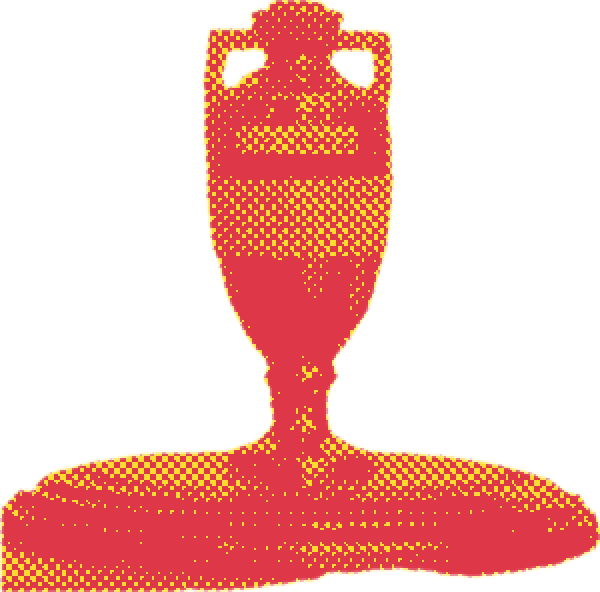
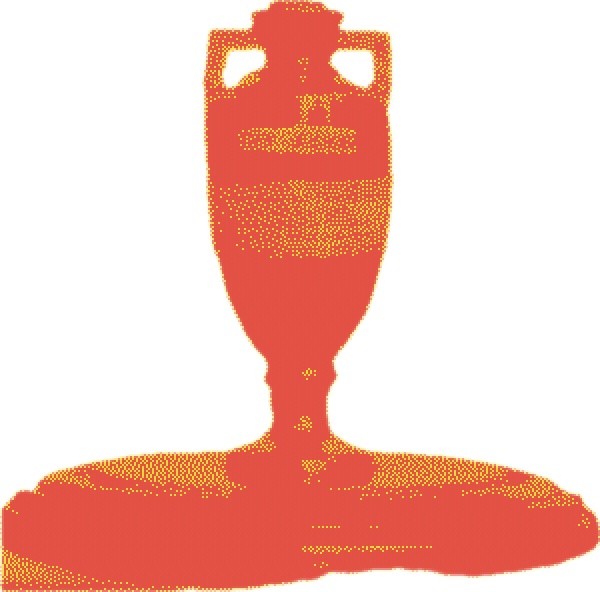
toombul: organic dither + slotted collage layout, five new objects
Swap the tiled h6x6a halftone for Floyd-Steinberg error diffusion
(gaussian pre-blur, binary, red->yellow clut) — organic photocopy grain,
no repeating pattern. Re-lay the collage on a slotted three-row grid with
even gutters, tuned visually on a 1440x900 compositing rig (Bradman kept
bottom right). New objects: Victor Trumper c1905, Wills's Ranji cigarette
card (1901, kept as full card rectangle), 1894 Sheffield Shield engraving,
engraved presentation cup, Bradman Toby jug.

diff --git a/app/toombul/toombul-site.css b/app/toombul/toombul-site.css
@@ -224,33 +224,38 @@
   pointer-events: none;
   z-index: 1;
 }
-/* Bradman & his captain walk off toward the crest, anchored bottom right. */
-.tc-para--bradman { right: 4%; bottom: 0; width: clamp(200px, 30vw, 440px); }
-/* The urn stands mid-left. */
-.tc-para--urn { left: 7%; top: 34%; width: clamp(110px, 15vw, 220px); }
-/* Baggy green floats top right. */
-.tc-para--cap { right: 15%; top: 11%; width: clamp(100px, 13vw, 190px); }
-/* Ball top left. */
-.tc-para--ball { left: 16%; top: 13%; width: clamp(70px, 9vw, 130px); }
-/* Bat sweeps diagonally, lower left. */
-.tc-para--bat { left: 3%; bottom: 12%; width: clamp(180px, 26vw, 380px); transform: rotate(-32deg); transform-origin: center; }
-/* Keeper's gloves, bottom centre-left. */
-.tc-para--gloves { left: 34%; bottom: 6%; width: clamp(100px, 13vw, 190px); }
-/* Stumps, top centre. */
-.tc-para--stumps { left: 42%; top: 7%; width: clamp(120px, 16vw, 230px); }
-/* Advance Australia arms, mid right edge — clear of Bradman's shoulder. */
-.tc-para--arms { right: 3%; top: 33%; width: clamp(80px, 10vw, 150px); }
+/* Slotted layout, tuned visually on a 1440x900 rig (scratchpad L5): three
+   loose rows with even gutters, Bradman anchored bottom right. Positions
+   are % of the section; widths are vw-driven so the slots hold together. */
+/* row 1 */
+.tc-para--ball { left: 6.9%; top: 12.2%; width: clamp(64px, 9vw, 150px); }
+.tc-para--card { left: 21.5%; top: 9.4%; width: clamp(56px, 7.6vw, 128px); }
+.tc-para--stumps { left: 34%; top: 8.9%; width: clamp(120px, 18vw, 300px); }
+.tc-para--cap { left: 70.8%; top: 10.6%; width: clamp(100px, 14.9vw, 250px); }
+.tc-para--shield { left: 87.8%; top: 7.8%; width: clamp(60px, 8.7vw, 145px); }
+/* row 2 */
+.tc-para--urn { left: 6.3%; top: 36.7%; width: clamp(96px, 13.9vw, 230px); }
+.tc-para--portrait { left: 28.1%; top: 35%; width: clamp(76px, 10.4vw, 175px); }
+.tc-para--trophy { left: 66%; top: 36.7%; width: clamp(76px, 10.8vw, 180px); }
+.tc-para--arms { left: 87.2%; top: 37.8%; width: clamp(64px, 9.4vw, 155px); }
+/* row 3 */
+.tc-para--bat { left: 2.3%; top: 75.6%; width: clamp(160px, 22.9vw, 380px); transform: rotate(-35deg); transform-origin: center; }
+.tc-para--gloves { left: 40.3%; top: 73.3%; width: clamp(96px, 13.9vw, 230px); }
+.tc-para--tobyjug { left: 58.7%; top: 76.1%; width: clamp(56px, 8vw, 132px); }
+.tc-para--bradman { right: 1.4%; bottom: 0; width: clamp(220px, 29.2vw, 480px); }
 
 @media (max-width: 700px) {
-  /* fewer, smaller items on phones — keep the ring readable.
+  /* fewer, smaller items on phones — keep the slots readable.
      .tc-site prefix out-ranks the `.tc-site img { display:block }` reset. */
-  .tc-site .tc-para--gloves, .tc-site .tc-para--arms { display: none; }
-  .tc-site .tc-para--bradman { width: 50vw; right: 2%; }
-  .tc-site .tc-para--bat { bottom: 6%; left: 0; width: 46vw; }
-  .tc-site .tc-para--ball { top: 16%; left: 8%; }
-  .tc-site .tc-para--stumps { top: 9%; left: 30%; width: 34vw; }
-  .tc-site .tc-para--cap { top: 22%; right: 6%; width: 30vw; }
-  .tc-site .tc-para--urn { top: 38%; left: 3%; width: 23vw; }
+  .tc-site .tc-para--card, .tc-site .tc-para--shield, .tc-site .tc-para--arms,
+  .tc-site .tc-para--gloves, .tc-site .tc-para--tobyjug, .tc-site .tc-para--trophy { display: none; }
+  .tc-site .tc-para--stumps { left: 31%; top: 8%; width: 36vw; }
+  .tc-site .tc-para--ball { left: 6%; top: 15%; width: 20vw; }
+  .tc-site .tc-para--cap { left: 66%; top: 19%; width: 27vw; }
+  .tc-site .tc-para--urn { left: 4%; top: 37%; width: 23vw; }
+  .tc-site .tc-para--portrait { left: 70%; top: 38%; width: 21vw; }
+  .tc-site .tc-para--bat { left: -2%; top: 70%; width: 42vw; }
+  .tc-site .tc-para--bradman { right: 1%; width: 52vw; }
 }
 
 /* ── footer ───────────────────────────────────────────────────────────── */

diff --git a/components/toombul/sections/Hero.tsx b/components/toombul/sections/Hero.tsx
@@ -1,17 +1,24 @@
 // Hero collage: the Toombul crest centred, ringed by bitmapped cricket
-// paraphernalia — Bradman walking off (from the club's own history page),
-// a 1928 baggy green, the Ashes urn (1921), ball, bat, keeper's gloves,
-// stumps, and the Advance Australia arms. Every item halftone-dithered and
-// gradient-mapped to the crest's red -> yellow.
+// paraphernalia — every item Floyd-Steinberg dithered and gradient-mapped
+// to the crest's red -> yellow. Slotted layout tuned on a 1440x900 rig.
+// Sources: Bradman signed photo (club history page), 1928 baggy green +
+// Advance Australia arms, 1921 Ashes urn, Victor Trumper c1905, Wills's
+// "Ranji" cigarette card (1901), 1894 Sheffield Shield engraving, Bradman
+// Toby jug, presentation cup, ball, bat, keeper's gloves, stumps (Wikimedia).
 const ITEMS = [
-  { src: "/toombul/dither/bradman.png", alt: "Don Bradman walking off, signed photograph", cls: "tc-para--bradman" },
-  { src: "/toombul/dither/urn.png", alt: "The Ashes urn, 1921", cls: "tc-para--urn" },
-  { src: "/toombul/dither/cap.png", alt: "A 1928 Australian baggy green cap", cls: "tc-para--cap" },
   { src: "/toombul/dither/ball.png", alt: "Cricket ball", cls: "tc-para--ball" },
+  { src: "/toombul/dither/card.png", alt: "Wills's cigarette card of Ranjitsinhji, 1901", cls: "tc-para--card" },
+  { src: "/toombul/dither/stumps.png", alt: "Cricket stumps", cls: "tc-para--stumps" },
+  { src: "/toombul/dither/cap.png", alt: "A 1928 Australian baggy green cap", cls: "tc-para--cap" },
+  { src: "/toombul/dither/shield.png", alt: "The Sheffield Shield, 1894 engraving", cls: "tc-para--shield" },
+  { src: "/toombul/dither/urn.png", alt: "The Ashes urn, photographed 1921", cls: "tc-para--urn" },
+  { src: "/toombul/dither/portrait.png", alt: "Victor Trumper at the crease, about 1905", cls: "tc-para--portrait" },
+  { src: "/toombul/dither/trophy.png", alt: "Engraved presentation cup", cls: "tc-para--trophy" },
+  { src: "/toombul/dither/arms.png", alt: "Advance Australia coat of arms", cls: "tc-para--arms" },
   { src: "/toombul/dither/bat.png", alt: "Cricket bat", cls: "tc-para--bat" },
   { src: "/toombul/dither/gloves.png", alt: "Wicket keeping gloves", cls: "tc-para--gloves" },
-  { src: "/toombul/dither/stumps.png", alt: "Cricket stumps", cls: "tc-para--stumps" },
-  { src: "/toombul/dither/arms.png", alt: "Advance Australia coat of arms", cls: "tc-para--arms" },
+  { src: "/toombul/dither/tobyjug.png", alt: "Don Bradman Toby jug", cls: "tc-para--tobyjug" },
+  { src: "/toombul/dither/bradman.png", alt: "Don Bradman walking off, signed photograph", cls: "tc-para--bradman" },
 ];
 
 export default function Hero() {
